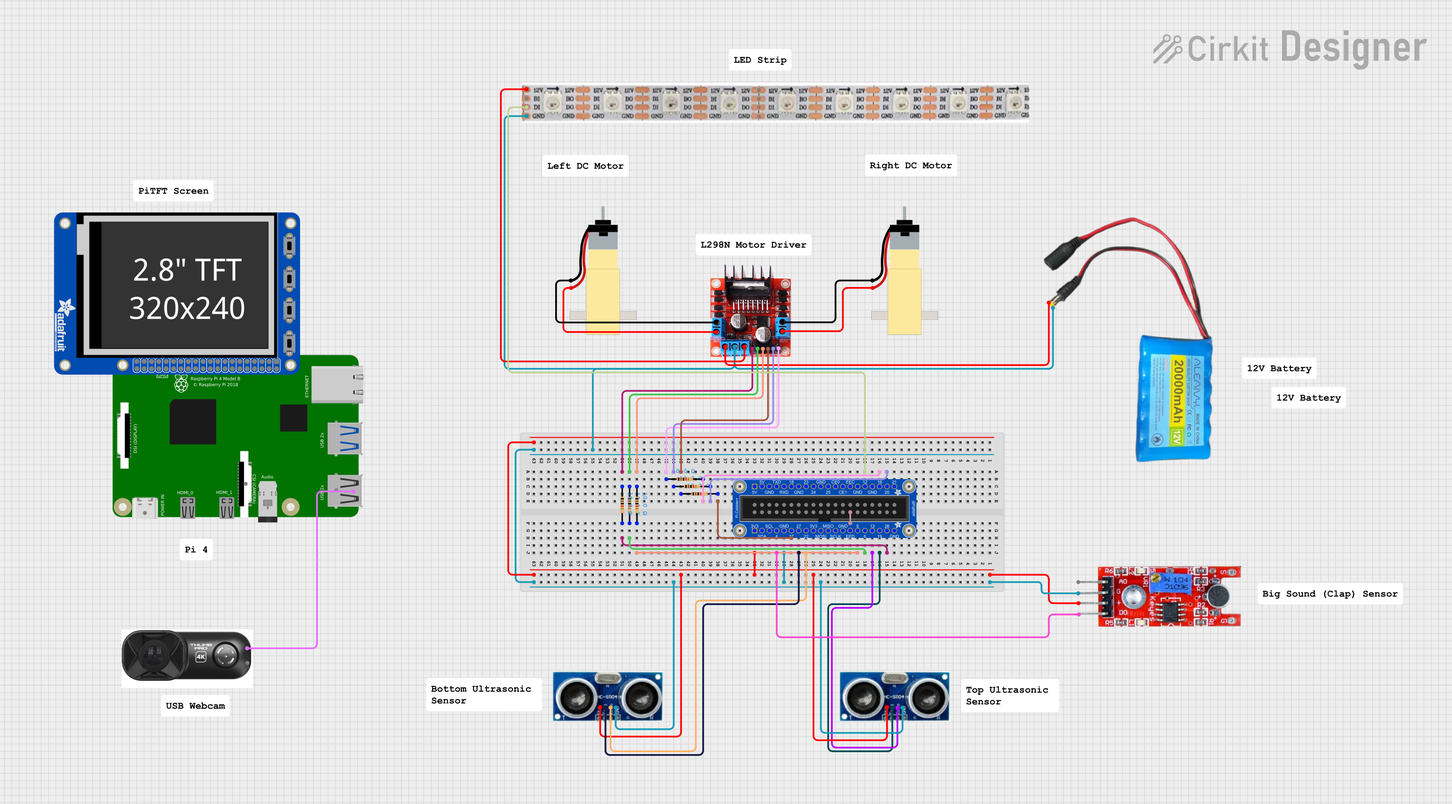
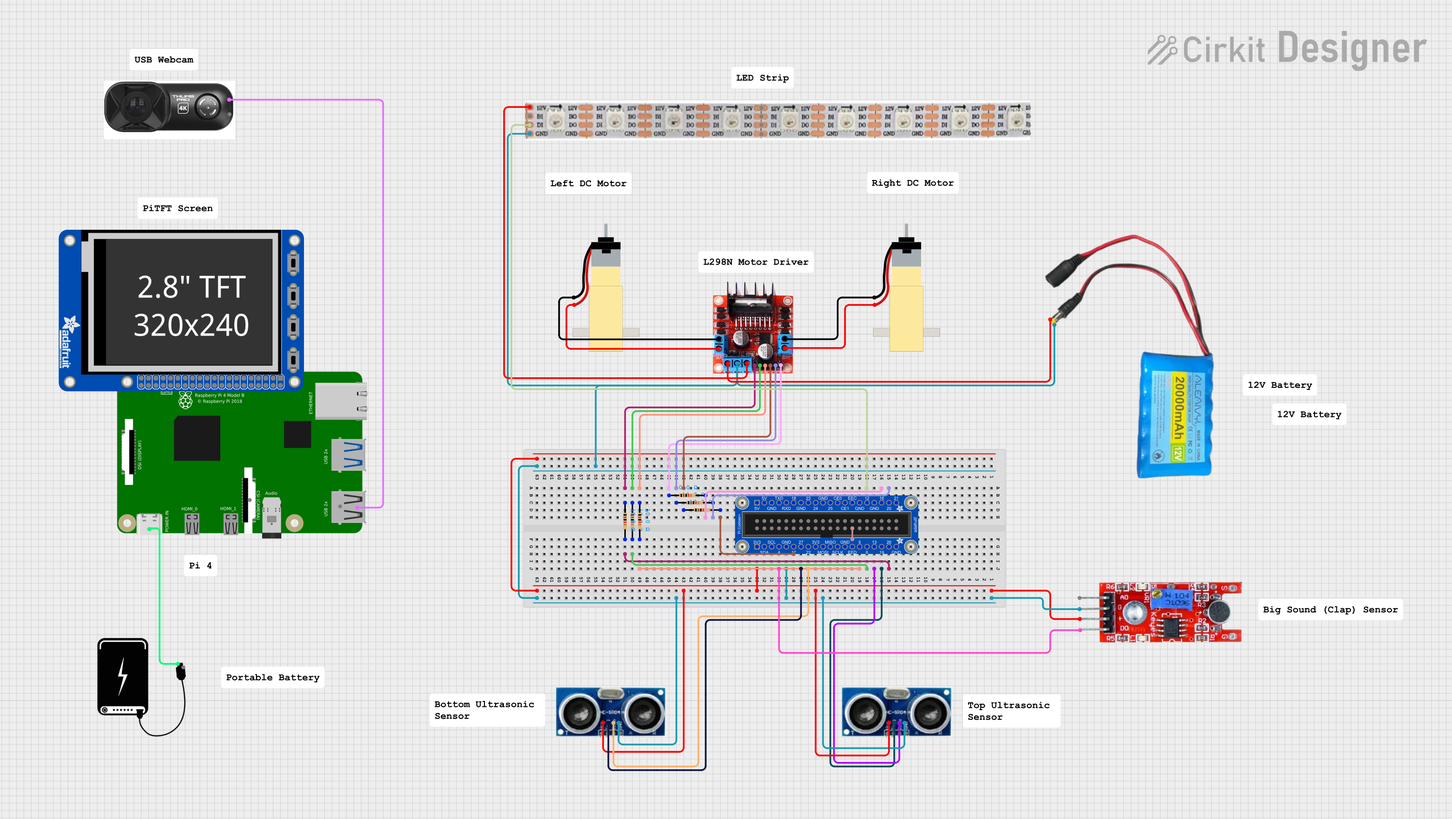
STPID STUPID CHUNGUS EWEBSITE

diff --git a/website/index.html b/website/index.html
@@ -117,8 +117,8 @@
               <p style="text-align: left;padding: 0px 30px;">The images above show the Fusion 360 CAD mechanical model that we 3D printed for our project. Our goal for this design was to extend the bottom of an already existing trash can and neatly enclose all eletrical components. Notice that in our design, we kept motor mounts separate from the actual bin assembly to make printing easier and to allow for more rapid prototyping changes in case our motor mounts were incorrect (which happened many times). The extended bin base provides enough space to enclose a Pi 4, motor drivers, a long breadboard, and other tiny sensors such as the big sound sensor. A retangular hole is cut out in order to provide mounting for the PiTFT screen. The trash can is friction fit into the top of the extended base rim. A wide hole in the back provides open access to ports on the Pi and connections to battery chargers and the USB webcam mounted on top of the trashcan. Holes used in the design are made to fit M3 screws and nuts. Our final print was made out of PLA due to its low cost and faster printing time, as well as slightly more flexibility over more rigid materials like PETG.</p>
               
               <div style="display: flex; gap: 10px;">
-                  <img class="img-round" src="pics/old_motor_mounts.png" alt="Initial Proposal" style="width: 30%;">
-                  <img class="img-round" src="pics/new_motor_mounts.png" alt="Initial Proposal" style="width: 70%;">
+                  <img class="img-round" src="pics/old_motor_mounts.png" alt="Initial Proposal" style="width: 50%;">
+                  <img class="img-round" src="pics/new_motor_mounts.png" alt="Initial Proposal" style="width: 50%;">
               </div>
 
               <p style="text-align: left;padding: 0px 30px;"> One major mechanical issue we encountered in mechanical assembly were our motor mount designs. Initialy, our robot utilized larger RS550 12V DC motors but we eventually replaced our motors to use our Lab 3 DC gearbox motors. Since our motor mounts were a separate component from the extended bottom base, it was fairly simple to swap out these mounts. The images above showcase our motor swap, with the old RS550 design on the left and Lab 3 motor design on the right.</p>
@@ -127,7 +127,140 @@
 
               <h3>Electrical Hardware</h3>
               <img class="img-round" src="pics/circuit_image.png" alt="Initial Propsosal" width=100%>
-              Binny contains a wide variety of electrical components, each with their own functionality. The breadboard diagram 
+              <img class="img-round" src="pics/IMG_2719.jpg" alt="Initial Propsosal" width=50%>
+              <p style="text-align: left;padding: 0px 30px;">
+              Binny contains a variety of electrical components with various uses. The breadboard diagram above show the connections between the Raspberry Pi 4 and all electrical components used in the project. The image below showcases the physical implementation of all electrical components in our 3D printed bin enclousre. Binny contains the following major electrical components:
+              <ul style="text-align: left;padding: 0px 30px;">
+                <li>1 <b>Raspberry Pi 4</b> to control the entire system</li>
+                <li>1 <b>solderless breadboard</b> to interconnect all components</li>
+                <li>1 <b>PiTFT screen</b> to visualize computer vision data processing and ultrasonic distance measurements</li>
+                <li>1 <b>Logitech USB webcam</b> to provide real time images to the Pi for object detection processsing</li>
+                <li>2 <b>DC motors</b> for locomotion of the trash can</li>
+                <li>1 <b>L298N DC motor drivers</b> for transferring low-voltage (3.3V) control signals to higher-voltage (12V) electrical outputs to the motors</li>
+                <li>2 <b>ultrasonic distance sensors</b> to measure distances and avoid obstacles</li>
+                <li>1 <b>big sound sensor</b> to sense for loud noises like claps</li>
+                <li>1 <b>5V adressable LED strip</b></li>
+                <li>1 <b>12V reachargable lithium ion</b> battery to power the motors and LED strip</li>
+                <li>1 USB-C <b>portable battery</b> to power the Pi</li>
+              </ul>
+              </p>
+
+              <u style="text-align: left;padding: 0px 30px;">PiTFT Screen</u>
+              <p style="text-align: left;padding: 0px 30px;"></p>
+
+              <u style="text-align: left;padding: 0px 30px;">Logitech USB Webcam</u>
+              <p style="text-align: left;padding: 0px 30px;"></p>
+
+              <u style="text-align: left;padding: 0px 30px;">DC Gearbox Motors</u>
+              <div>
+              <img src="pics/tt_motor.jpg" alt="TT Motor" width=30%>
+              <p style="text-align: left;padding: 0px 30px;">
+                Binny uses two 12V DC gearbox motors from Lab 3 with one on each side (left and right) for locomotion. These motors are mounted at the bottom of the base near the back of the trashbin with a separate caster wheel in the front to maintain balance. The DC motors are generic TT DC gearbox motors with a gear ratio of 1:48. These motors are rated for 12V making them a good fit for power from four AA batteries. There is some variation in each motor due to the lack of encoders, speed control or position feedback. Regardless, these motors were chosen for their accessibiltiy with motor drivers, matching power requirements, and high torque value compared to previous DC motors we tried.
+              </p>
+              </div>
+              
+              <u style="text-align: left;padding: 0px 30px;">Motor Controller Module</u>
+              <div>
+              <img src="pics/l298n.webp" alt="L298N Motor Driver" width=45%>
+              <p style="text-align: left;padding: 0px 30px;">
+                Both motors are controlled by a dual-channel L298N motor driver. These drivers receive logic-level signals from the Raspberry Pi Pico W and translate them into higher-current outputs suitable for driving the motors. They are mounted inside the body of the dog near the front joints and the back joints. The motor driver provides control over motor speed using PWM and control over spin direction using an internal H-Bridge. Pulse Width Modulation (PWM) sends a series of ON-OFF pulses - the average voltage is proportional to the width or duty cycle of the pulses. The higher the duty cycle (larger pulse width), the higher the average voltage is applied to the DC motor therefore increasing the motor speed. The shorter the duty cycle, the lower the motor speed. The EN pin on each motor driver is pulsed using PWM. The H-Bridge controls the spin direction by changing the polarity of the input voltage. These are controlled by the InA and InB pins on the motor driver. Battery power is applied to the Vs and GND pins to supply the DC motors.
+              </p>
+              </div>
+
+              <u style="text-align: left;padding: 0px 30px;">Ultrasonic Distance Sensors</u>
+              <div>
+              <img src="pics/ultrasonic.png" alt="Ultrasonic" width=45%>
+              <p style="text-align: left;padding: 0px 30px;">
+                Two HC-SR04 ultrasonic distance sensors mounted at the front of the robot measure distances to nearby objects. which take in DC 5V and have an ultrasonic frequency of 40 kHz. It has a minimum range of 2cm and a maximum range of 400cm, with an accuracy of 3mm and a measuring angle of less than 15 degrees. Ultrasonic sensors measure the distance to an object by using a transducer to send and receive ultrasonic pulses that relay information about an object's proximity. A sound wave at a frequency above human hearing range is sent out using the Trig pin and then the Echo pin listens for the reflected signal. The software subsection describes the process of converting this information into recordable measurements. These sensors form the core of the obstacle avoidance software.
+              </p>
+              </div>
+
+              <u style="text-align: left;padding: 0px 30px;">Big Sound Sensor</u>
+              <div>
+              
+              <p style="text-align: left;padding: 0px 30px;">
+
+              </p>
+              </div>
+
+              <u style="text-align: left;padding: 0px 30px;">LED Strip</u>
+              <div>
+              <p style="text-align: left;padding: 0px 30px;"></p>
+              </div>
+
+              <u style="text-align: left;padding: 0px 30px;">Power</u>
+              <div>
+              <p style="text-align: left;padding: 0px 30px;">
+              Binny consists of two power supplies - one 12V rechargable Li-ion battery and one portable battery providing USB power. The Li-ion battery provides 12V at around 3000 mAH of power at full charge. We chose to go with this battery as it was rechargable and met the power requirements for the motors used in this project. In addition to powering the motors, the motor driver used includes a built in 12V to 5V buck converter, which we use to power our 5V LED strip. Additionally, taking 5V from this battery prevents undervotlage power warnings on the Pi. This takes power load off the Raspberry Pi, allowing maximum power usage to go towards software processes rather than hardware requirements. The portable battery bank provides USB power to the Raspberry Pi. USB power is advantageous over a battery as it provides a regulated power source and prevents overvoltage or undervoltage of the Pi which could negatively harm processes. 
+              </p>
+              </div>
+
+              <b>GPIO Mapping</b>
+              <div style="display: flex; justify-content: center; margin-top: 10px;">
+              <style type="text/css">
+              .tg  {border-collapse:collapse;border-spacing:0;}
+              .tg td{border-color:black;border-style:solid;border-width:1px;font-family:Arial, sans-serif;font-size:14px;
+                overflow:hidden;padding:10px 5px;word-break:normal;}
+              .tg th{border-color:black;border-style:solid;border-width:1px;font-family:Arial, sans-serif;font-size:14px;
+                font-weight:normal;overflow:hidden;padding:10px 5px;word-break:normal;}
+              .tg .tg-0lax{text-align:center;vertical-align:top}
+              </style>
+              <table class="tg"><thead>
+                <tr>
+                  <th class="tg-0lax"><span style="font-weight:bold">GPIO</span></th>
+                  <th class="tg-0lax"><span style="font-weight:bold">Function</span></th>
+                </tr></thead>
+              <tbody>
+                <tr>
+                  <td class="tg-0lax">4</td>
+                  <td class="tg-0lax">Big Sound Sensor Data</td>
+                </tr>
+                <tr>
+                  <td class="tg-0lax">12</td>
+                  <td class="tg-0lax">LED Strip Data</td>
+                </tr>
+                <tr>
+                  <td class="tg-0lax">13</td>
+                  <td class="tg-0lax">Top Ultrasonic Sensor Echo </td>
+                </tr>
+                <tr>
+                  <td class="tg-0lax">19</td>
+                  <td class="tg-0lax">Top Ultrasonic Sensor Trig</td>
+                </tr>
+                <tr>
+                  <td class="tg-0lax">22</td>
+                  <td class="tg-0lax">Bottom Ultrasonic Sensor Echo </td>
+                </tr>
+                <tr>
+                  <td class="tg-0lax">27</td>
+                  <td class="tg-0lax">Bottom Ultrasonic Sensor Trig</td>
+                </tr>
+                <tr>
+                  <td class="tg-0lax">26</td>
+                  <td class="tg-0lax">Left Motor PWM</td>
+                </tr>
+                <tr>
+                  <td class="tg-0lax">5</td>
+                  <td class="tg-0lax">Left Motor Direction A</td>
+                </tr>
+                <tr>
+                  <td class="tg-0lax">6</td>
+                  <td class="tg-0lax">Left Motor Direction B</td>
+                </tr>
+                <tr>
+                  <td class="tg-0lax">16</td>
+                  <td class="tg-0lax">Right Motor PWM</td>
+                </tr>
+                <tr>
+                  <td class="tg-0lax">17</td>
+                  <td class="tg-0lax">Right Motor Direction A</td>
+                </tr>
+                <tr>
+                  <td class="tg-0lax">20</td>
+                  <td class="tg-0lax">Right Motor Direction B</td>
+                </tr>
+              </tbody></table>
+              </div>
 
               <h3>Software</h3>
               <li> FLOW CHART OF CONTROL SCHEME === joystick mode ==== auto +> wait up, got it, backing up, where are you trash, just stopped</li>
@@ -139,7 +272,12 @@
               <li>LEDs</li>
               <li>website and hotspot</li>
               <li>speaker voice</li>
-              
+
+              <img class="img-round" src="pics/software_architecture.png" alt="Software Architecture" width=70%>
+
+              <p style="text-align: left;padding: 0px 30px;">
+              Binny has a variety of softaware components that work together to provide an enjoyable experience to throwing out trash. A rough diagram of our software architecture is shown above. A more detailed description of each software component is provided below.
+              </p>
 
               <h4>Computer Vision</h4>
               
@@ -165,8 +303,9 @@
               </p>
 
               <h5>PiTFT display</h5>
+              <img class="img-round" src="pics/lcdScreen.png" alt="PiTFT Display" width=70%>
               <p style="text-align: left;padding: 0px 30px;">
-              The PiTFT display is used to provide a real-time visual interface for Binny. It displays the video feed from the USB camera along with the bounding boxes drawn around detected humans. This allows users to see what Binny is "seeing" and how it is interpreting its surroundings. The display also shows additional information such as the current FPS, distance readings from the ultrasonic sensors, and how many objects it detects in a scene. 
+              The PiTFT display is used to provide a real-time visual interface for Binny as shown above. It displays the video feed from the USB camera along with the bounding boxes drawn around detected humans. This allows users to see what Binny is "seeing" and how it is interpreting its surroundings. The display also shows additional information such as the current FPS, distance readings from the ultrasonic sensors, and how many objects it detects in a scene. 
               The PiTFT is interfaced directly by writing to the framebuffer using OpenCV, allowing for efficient rendering of graphics and text. This direct framebuffer access was actually a major source of lag in our system, as writing to the PiTFT's framebuffer is quite slow. To mitigate this, we optimized our drawing routines to only open the frame buffer once as opposed to opening and closing it every frame. This significantly improved the overall performance of the display, and the overall program since this issue was causing the entire system to lag.
               </p>
 
@@ -178,19 +317,20 @@
               <h4>Ultrasonic Sensors</h4>
               <p style="text-align: left;padding: 0px 30px;">
               Ultrasonic sensors are used for obstacle detection and avoidance. We use two ultrasonic sensors mounted on the front of Binny to measure distances to nearby objects. The sensors work by sending out a high-frequency sound pulse and measuring the time it takes for the echo to return. This time is then converted into a distance measurement. The pigpio library is used to generate the trigger pulse and measure the echo pulse duration using GPIO pins. If an object is detected within a certain distance of 10cm, Binny will stop moving forward to avoid collisions. The threshold of 10cm was decided after extensive tests and hard hits to the LCD screen. This safety feature ensures that Binny can navigate its environment without running into obstacles, and also serves as a way for someone to signal Binny to back up if it gets too close.
-              We have the ultrasonic sensors constantly measuring distances in a separate thread, updating global distance variables that the main control loop can access. This allows for real-time obstacle detection without blocking the main program flow.
+              We have the ultrasonic sensors constantly measuring distances in a separate thread, updating global distance variables that the main control loop can access. This allows for real-time obstacle detection without blocking the rest of the program from running.
             </p>
 
               <h4>Clap Detection</h4>
               <p style="text-align: left;padding: 0px 30px;">
-              Clap detection is implemented using a sound sensor connected to the Raspberry Pi. The sensor outputs an digital signal when a loud sound, such as a clap, is detected. We use the pigpio library to monitor the GPIO pin connected to the sound sensor for rising edges, indicating a clap event. When a clap is detected, Binny's main loop will interupt and it will spin around in place to look for a person to follow. This feature adds an interactive element to Binny, allowing users to easily get its attention when it is idle. The spin duration and speed were determined through testing to ensure Binny can effectively reorient itself without overshooting. We opted for a smaller spin angle of about 10 degrees per clap to prevent Binny from getting disoriented and losing track of the person it was following, but since we are controlling the motors directly, the angles change depending on what floor Binny is on.
+              Clap detection is implemented using a sound sensor connected to the Raspberry Pi. The sensor outputs an digital signal when a loud sound, such as a clap, is detected. We use the pigpio library to monitor the GPIO pin connected to the sound sensor for rising edges, indicating a clap event. When a clap is detected, Binny's main loop will interupt and it will spin around in place to look for a person to follow. This feature adds an interactive element to Binny, allowing users to easily get its attention when it is idle, or make Binny turn around if it ends up facing the wrong direction. The spin duration and speed were determined through testing to ensure Binny can effectively reorient itself without overshooting. We opted for a smaller spin angle of about 10 degrees per clap to prevent Binny from getting disoriented and losing track of the person it was following, but since we are controlling the motors directly, the angles change depending on what floor Binny is on.
               We also had to tune the sensitivity of the sound sensor to avoid false positives from ambient noise. This was done by adjusting the potentiometer on the sound sensor module.
               </p>
 
               <h4>LEDs</h4>
+              <img class="img-round" src="pics/leds.jpg" alt="LEDs" width=45%>
               <p style="text-align: left;padding: 0px 30px;">
-              The LEDs are used to provide visual feedback and enhance the user experience. We use a NeoPixel ring connected to the Raspberry Pi via a dedicated GPIO pin. The Adafruit NeoPixel library is used to control the LEDs, allowing us to set colors and animations. At startup, Binny performs a colorful LED animation to indicate that it is powering on. During operation, the LEDs can change colors based on Binny's state, such as: wiping a red across the strip if it is within range of a person to signify stopping, flashing a green light when it hears a clap to turn, flashing a blue light when it chases someone, wiping white across the strip when we transition from joystick to autonomous mode, and having a rainbow gradient fade on the strip when we are controlling the robot using a joystick. 
-              The LED effects are managed in a separate python process from the main app since the NeoPixel library needs to be run as root, which the rest of the program was not configured to do (we ran into permission issues when running the ultrasonic code as root). Communication between the main app and the LED process is done via a simple command line protocol using the subprocess library. We can run a command such as "sudo -E python light_test.py --mode wipe --color 0,255,0" from our main Python program to spawn a process that is run as root to handle the LEDs. This allows us to change LED effects in real-time based on Binny's state without blocking the main program flow.
+              The LEDs are used to provide visual feedback and enhance the user experience. We use a NeoPixel ring connected to the Raspberry Pi via a dedicated GPIO pin. The Adafruit NeoPixel library is used to control the LEDs, allowing us to set colors and animations. At startup, Binny performs a colorful LED animation to indicate that it is powering on. During operation, the LEDs can change colors based on Binny's state, such as: wiping a red across the strip if it is within range of a person to signify stopping, flashing a blue light when it hears a clap to turn, flashing a green light when it chases someone, wiping white across the strip when we transition from joystick to autonomous mode, and having a rainbow gradient fade on the strip when we are controlling the robot using a joystick. 
+              The LED effects are managed in a separate python process from the main app since the NeoPixel library needs to be run as root, which the rest of the program was not configured to do (we ran into permission issues when running the ultrasonic code as root). Communication between the main app and the LED process is done via a simple command line protocol using the subprocess library. We can run a command such as "sudo -E python light_test.py --mode wipe --color 0,255,0" from our main Python program to spawn a process that is run as root to handle the LEDs. This allows us to change LED effects in real-time based on Binny's state without stopping the main program flow.
               A problem we encountered with the LEDs is that if the LED process is not properly terminated, the pins controlling the LEDs can get stuck in their last state, and conflict with any subsequent calls, causing the whole system to lag and the LEDs to flash erratically or just not change color. To solve this, we implemented a cleanup routine that is called when the main program exits, which sends a command to the LED process to properly de-initialize the pin used to control the LEDs. Additionally, we made sure to prevent multiple LED processes from running simultaneously by checking for existing processes before spawning a new one, and by limiting the time between LED processes to at least 5 seconds.
               The large gap between LED commands is to prevent multiple LED processes from running at once, which would cause the system to lag and the LEDs to behave erratically.
               Additionally, to run the LED process at startup with a set animation, we have a bash script to run a separate program that handles the LED startup animation, that then runs the main Binny program after the animation is complete.
@@ -200,7 +340,24 @@
               <p style="text-align: left;padding: 0px 30px;">
               The website serves as a user interface for controlling Binny. It is hosted on the Raspberry Pi using the Flask web framework. The website allows users to toggle between manual joystick control and autonomous mode. In joystick mode, users can control Binny's movement using an on-screen joystick implemented with the nipplejs library. In autonomous mode, Binny uses its computer vision and obstacle avoidance algorithms to follow humans automatically. The website has a button to switch modes, which sends a request to the Flask server to update Binny's operating mode. The server then communicates this change to the main control loop of Binny, allowing it to switch between manual and autonomous operation.
               Additionally, The Raspberry Pi is configured to create a WiFi hotspot using networkmanager, allowing users to connect directly to Binny's network. This enables easy access to the website without needing an external WiFi network. The hotspot configuration includes setting up a static IP address for the Pi so users can access the website at a known address (10.42.0.1:5000).
+              The main draw of this is that it allows you to control Binny using just your phone from anywhere within WiFi range, making it very convenient to use. It also allows you to control Binny manually if the can is stuck somewhere, not following you properly, or is just fairly far away.
               </p>
+              <grid>
+              <img class="img-round" src="pics/test.webp" alt="Website" width=45%>
+              <img class="img-round" src="pics/autoModeWebsite.png" alt="Website" width=45%>
+              </grid>
+
+              <h4>Speaker Voice</h4>
+              <p style="text-align: left;padding: 0px 30px;"></p>
+              [AUTO CONNECTINO TO BLUETOOTH SPEAKER ON STARTUP]
+              
+
+              We then use the bluetooth speaker to give audio feedback to the user using the espeak text-to-speech command line tool. 
+              Binny uses espeak to announce its current state, such as when it starts following a person (saying "wait up"), when it stops due to an obstacle (saying "ahhh too close"), when it reaches you (saying "got it"), when it spins due to a clap and looks for you (saying "where are you trash), or when it switches between manual and autonomous modes (saying "joystick/autonomous mode"). The espeak command is called from the main Python, letting the program continue to run with the espeak process in the background.
+
+              </p>
+              
+
 
             
               <!-- <p style="text-align: left;padding: 0px 30px;">Lorem ipsum dolor sit amet, consectetur adipiscing elit. Vestibulum lorem nulla, consectetur at leo vel, pretium bibendum nisl. Cras blandit quam a enim ultrices, eu convallis enim posuere. Donec eleifend enim sed purus consectetur, vitae cursus lectus varius. Vivamus consectetur felis nec est venenatis posuere. Phasellus vitae aliquet erat. In laoreet lacinia mollis. Quisque iaculis nisl fermentum pharetra lobortis. Donec rhoncus dui sem, ac molestie leo tristique vel. Phasellus in nibh feugiat, fringilla lectus in, elementum magna. Etiam quis dui condimentum, tempus ex in, dapibus est. Cras ut congue augue. Donec ac enim ex. Ut id tristique risus, vel porttitor quam. Sed ultricies enim eu nibh porttitor, vel sodales enim feugiat. Fusce volutpat venenatis magna ac ultrices. Curabitur eget urna ut nulla mattis convallis non eu diam.</p> -->
@@ -217,6 +374,28 @@
               improving confidence score threshold
               Pitft and espeak process laggings
               led not cleaning up when finished
+
+              <p>
+                In order to ensure the reliability and performance of Binny, we conducted a series of tests focusing on various aspects of the system. These tests included:
+              </p>
+              1. Motor Functionality: We tested the motors individually to ensure they responded correctly to speed and direction commands. 
+              This involved running the motors via the Lab 3 rolling code to verify their operation before integrating them into Binny's control system.
+              At first, we had 12V motors that were too weak to move the entire trash can, so we switched to stronger motors from Lab 3 that used a gearbox to provide more torque. We were worried that they would not be able to provide enough speed, but after testing, we found that they were sufficient for our needs, in fact sometimes they were too fast and flipped the can over, so we had to limit the speed in software.
+              We were also worried that the motors would not be able to handle the weight of the trash can, and the higher voltage of 12V since they were only rated for 8V but after testing, we found that they were able to move the can without any issues.
+              We also calibrated the motors to ensure straight-line movement, making each motor spin at the same duty cycle and seeing if it actually went straight. Whether it was because of slight differences in the motors, wheel alignment, or the weight distribution of the trash can, we found that one motor would often spin slightly faster than the other, causing Binny to veer off course. To fix this, we adjusted the PWM duty cycle of each motor until Binny could move in a straight line reliably.
+              <br>
+              2. Computer Vision Accuracy: We evaluated the YOLO model's ability to detect and track humans in different lighting conditions and environments. This involved testing with multiple subjects at varying distances and angles.
+              <br>
+              3. Obstacle Avoidance: We tested the ultrasonic sensors' effectiveness in detecting obstacles and preventing collisions. This included placing objects at different distances and angles to ensure Binny could navigate around them.
+              <br>
+              4. Clap Detection: We assessed the sound sensor's sensitivity and responsiveness to claps. This involved testing in various noise environments to ensure reliable detection without false positives.
+              5. LED Functionality: We verified that the LED strip responded correctly to commands and displayed the intended colors and animations.
+              <br>
+              6. Website Control: We tested the website interface to ensure seamless switching between manual and autonomous modes, as well as joystick responsiveness.
+              7. Power Management: We monitored the power consumption of the system to ensure that the batteries could sustain operation for a reasonable duration.
+              8. Overall System Integration: We conducted end-to-end tests to evaluate the overall performance of Binny, ensuring that all components worked together harmoniously.
+
+              
 
 
               <p style="text-align: left;padding: 0px 30px;">Lorem ipsum dolor sit amet, consectetur adipiscing elit. Vestibulum lorem nulla, consectetur at leo vel, pretium bibendum nisl. Cras blandit quam a enim ultrices, eu convallis enim posuere. Donec eleifend enim sed purus consectetur, vitae cursus lectus varius. Vivamus consectetur felis nec est venenatis posuere. Phasellus vitae aliquet erat. In laoreet lacinia mollis. Quisque iaculis nisl fermentum pharetra lobortis. Donec rhoncus dui sem, ac molestie leo tristique vel. Phasellus in nibh feugiat, fringilla lectus in, elementum magna. Etiam quis dui condimentum, tempus ex in, dapibus est. Cras ut congue augue. Donec ac enim ex. Ut id tristique risus, vel porttitor quam. Sed ultricies enim eu nibh porttitor, vel sodales enim feugiat. Fusce volutpat venenatis magna ac ultrices. Curabitur eget urna ut nulla mattis convallis non eu diam.</p>
